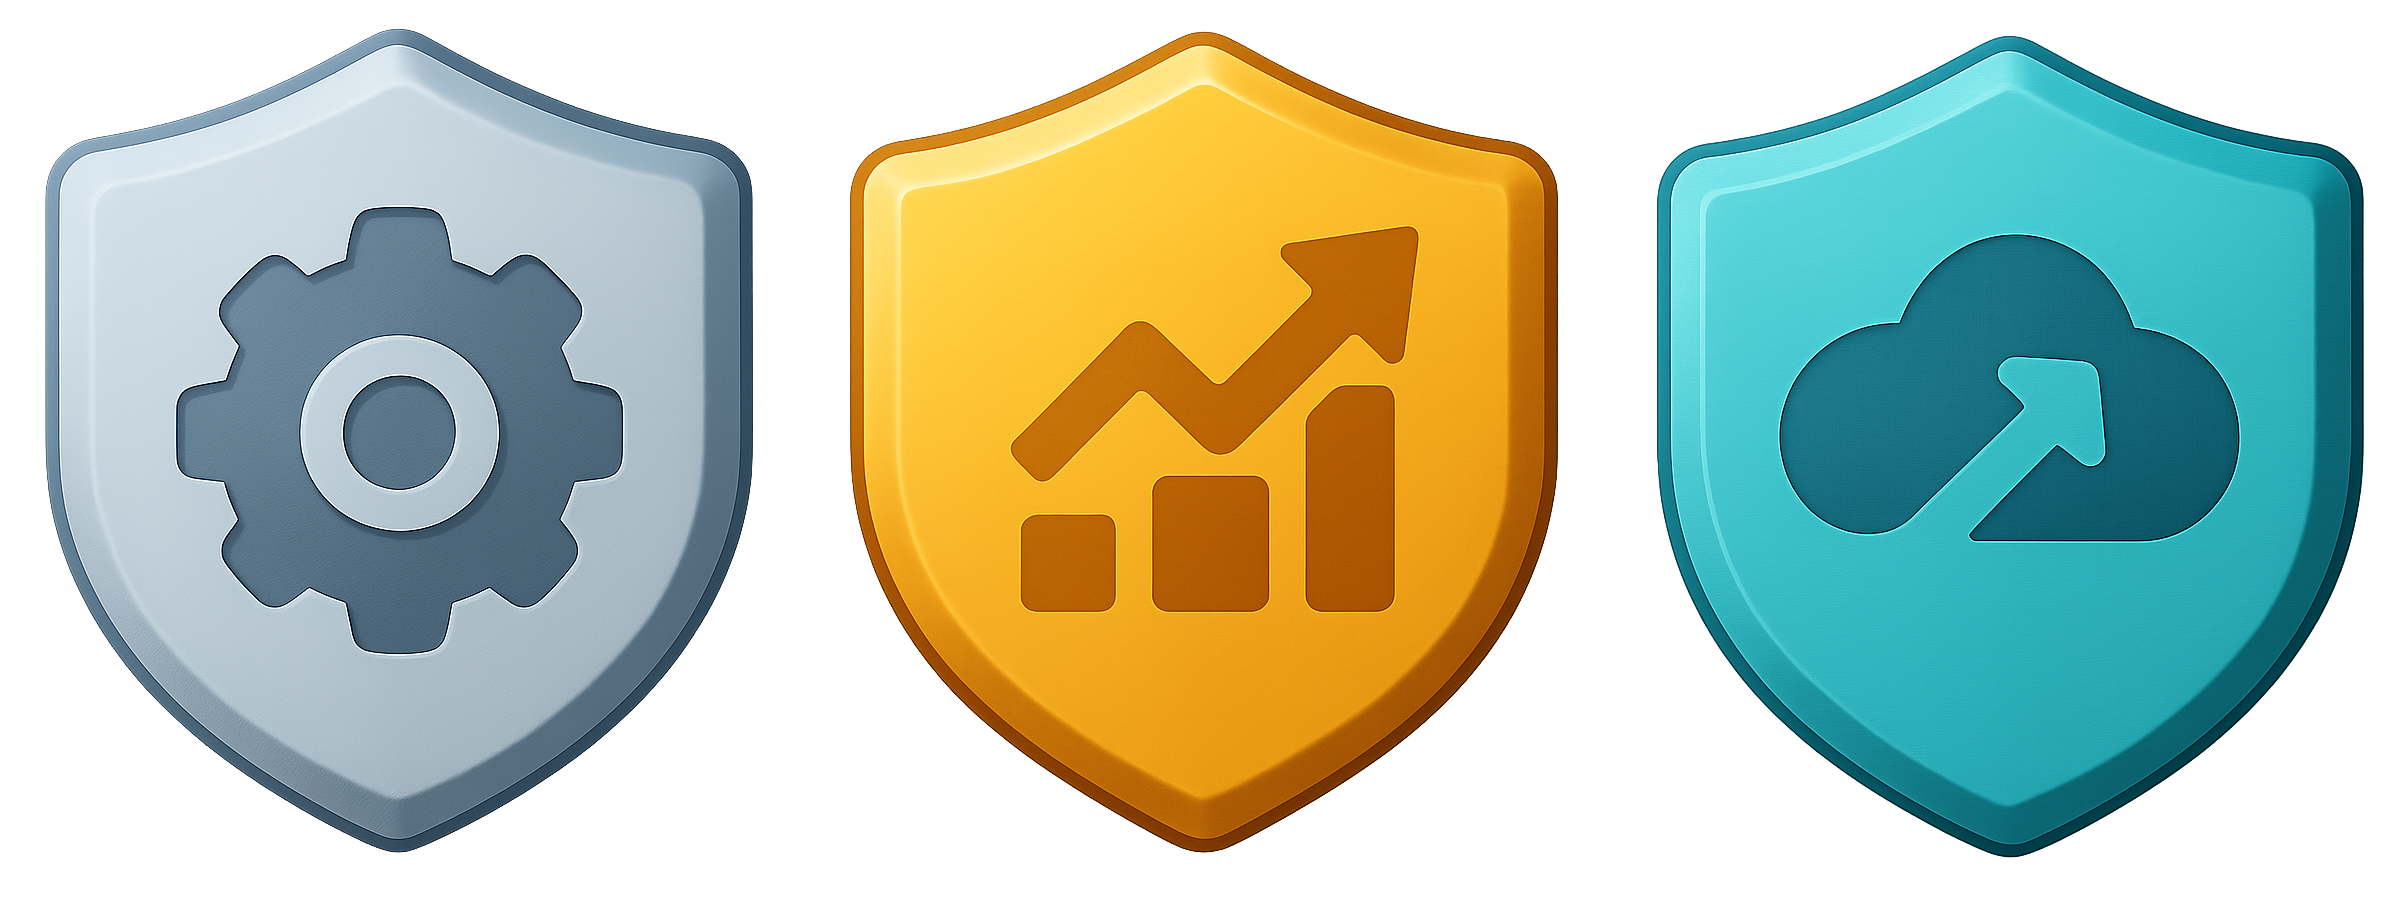
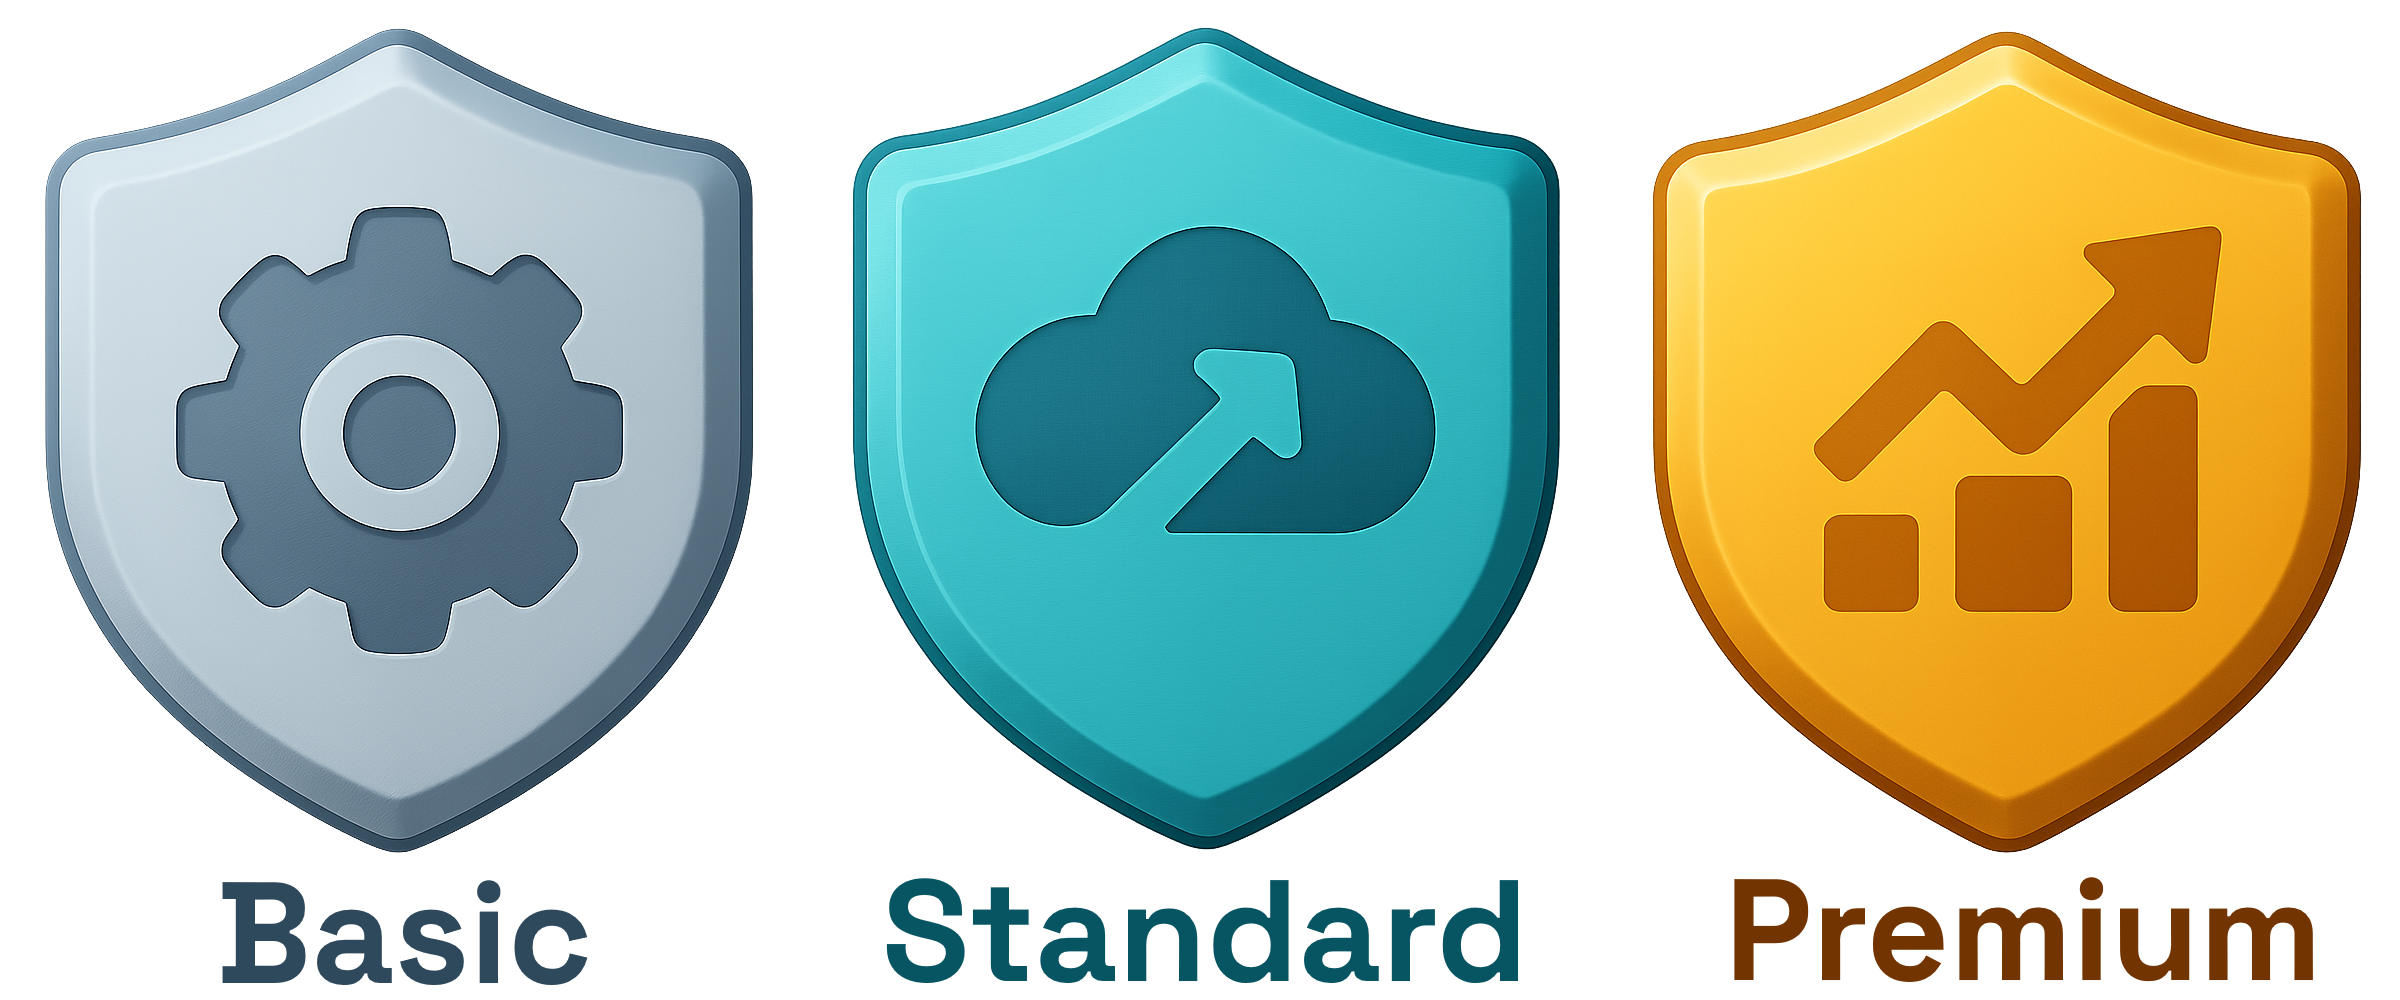
chore: Updated docs

diff --git a/README.md b/README.md
@@ -2,26 +2,32 @@
 [![Frontend WebApp Ready](https://img.shields.io/badge/Frontend_App-Ready-green.svg)](README.md)
 [![Build and Test](https://github.com/SaaStacked/saastack/actions/workflows/build.yml/badge.svg)](https://github.com/SaaStacked/saastack/actions/workflows/build.yml)
 
-[![Basic Available](https://img.shields.io/badge/Free_SKU_Available-009966.svg)](https://www.saastacked.com) [![Standard Available](https://img.shields.io/badge/Standard_SKU_Available-B87333.svg)](https://www.saastacked.com) [![Standard Available](https://img.shields.io/badge/Premium_SKU_Available-A67C00.svg)](https://www.saastacked.com)
+[![Basic Available](https://img.shields.io/badge/Free_SKU_Available-B8C8D1.svg)](https://www.saastacked.com) [![Standard Available](https://img.shields.io/badge/Standard_SKU_Available-3BBEC6.svg)](https://www.saastacked.com) [![Standard Available](https://img.shields.io/badge/Premium_SKU_Available-F5AD20.svg)](https://www.saastacked.com)
 
 
 # SaaStack
 
 Are you about to build a new SaaS product from scratch on .NET?
 
-Then start with SaaStack. It’s not just a codebase template—it’s your unfair advantage.
+Then do yourself a huge favor, and don't start it from scratch. Start with SaaStack instead.
 
-SaaStack saves you months (or years) of engineering work by giving you a fully-featured, scalable foundation for real-world SaaS products. It solves the unavoidable: user authentication, API access, authorization schemes, third-party integrations, management API.
+It’s not just a codebase template — it’s your startup's unfair advantage.
 
-Yes, .NET offers the building blocks already—but you still need to know how to wire it all up in a way that scales, survives, and adapts. That takes serious architecture skills that most founding engineers or CTOs simply don’t have on day one.
+SaaStack saves you months (possibly even years) of engineering work (and rework) by giving you a fully-featured, scalable foundation for real-world SaaS products, based on all the latest and great dotnet tech.
+
+It solves the unavoidable work of building out: user authentication, API access, authorization schemes, third-party integrations, management APIs, an initial website, and making all this secure and ready for scale, as well as being highly testable and robust.
+
+Your job as a founding engineer (or startup CTO) is not to do all this from scratch yourself, but to make smart tech, team, tooling and timing decisions that make you move fast, get your ideas to market and start iterating on product market fit.
+
+If you start from scratch youself, yes its fun and exciting, but you have months of work ahead of you just to get something reasonable working for your customers, and that's time and money you dont have to waste. Why not learn from those who have done this ten's of times before in multiple startups? and who can show you what is important to establish in your first couple years, long before you discover you can't do these things, when the crunch comes. 
 
 Skip the startup trap:
 
-- ❌ Reinventing the wheel, where we already have standard solutions
-- ❌ Rushing forward on a fragile foundation, that is untestable, insecure, and with no production observability
-- ❌ Building a tangled monolith, destined for a rewrite next year, when you discover that you cannot move fast, stuck in a big-ball-of-mud
+- ❌ Reinventing the wheel, where we already have well-known standard solutions
+- ❌ Rushing forward on a fragile foundation, that is under-engineered, untestable, insecure, and with no production observability, or extensibility.
+- ❌ Building a tangled monolith, destined for a rewrite next year, when you discover that you and your team cannot move fast, stuck in a big-ball-of-mud.
 
-SaaStack is opinionated, but it is also flexible and extensible and real-world, it is not a sample.
+SaaStack is opinionated, but it is also flexible and extensible and real-world. It is not a sample, it has been used and honed in a dozen real world SaaS products already (by the authors).
 
 Since it is a codebase and not a nuget package (secret sauce), you never get boxed inside it waiting for some other team to improve it for you.
 - ✅ It’s already battle-tested in several live SaaS companies - you benefit from their in-the-wild learnings and optimizations.
@@ -160,7 +166,7 @@ The starter template also takes care of these specific kinds of things:
   * It defines a ruleset about how JSON is represented on the wire and how requests are deserialized (to cope with different client styles)
   * It localizes developer errors
   * It handles and maps common exceptions to standard HTTP status codes
-  * It returns standard HTTP statuses for successful requests based on the HTTP method (e.g., GET = 200, POST = 201, PUT = 202, DELETE = 204)
+  * It returns standard HTTP statuses for successful requests based on the HTTP method (e.g., `GET`= 200, `POST` = 201, `PUT` = 202, `DELETE` = 204)
   * Provides a Swagger UI.
 * Infrastructure
   * All infrastructure components are independently testable adapters
@@ -219,4 +225,6 @@ That is what [SaaStack Standard](https://www.saastacked.com) and [SaaStack Premi
 
 <a href="https://www.saastacked.com"><img alt="SaaStack Licenses" src="docs/images/Skus.png" width="850" /></a>
 
-Upgrade, for a one time fee, and get access to everything to launch your new product in the cloud. Then get access to community of other SaaS builders who are extending the core architecture for more mature SaaS products and services.
+Upgrade, for a one time fee, and get access to everything to launch your new product in the cloud. 
+
+Then get access to community of other SaaS builders who are extending the core architecture for more mature SaaS products and services.
